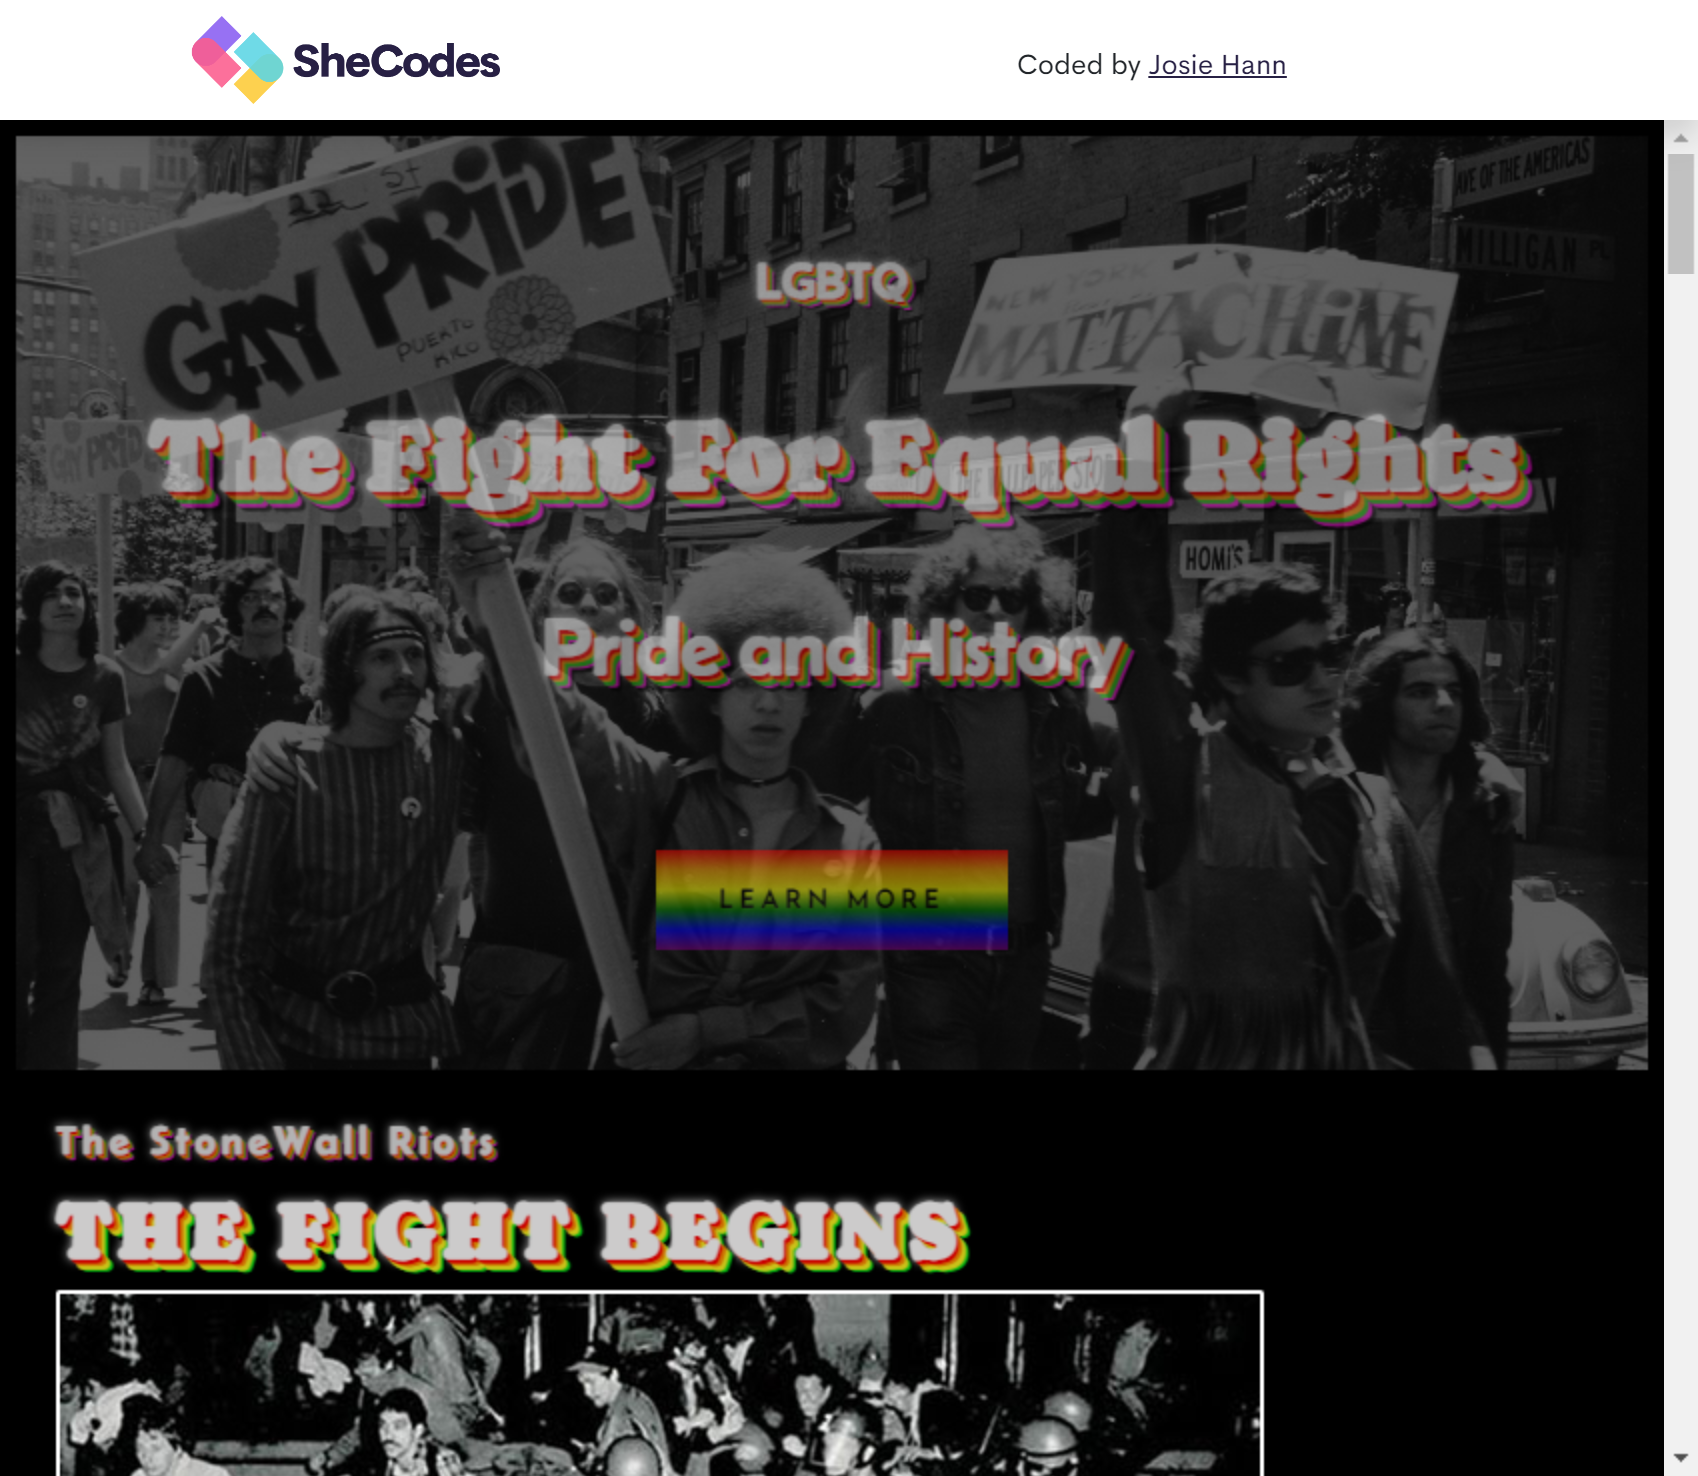
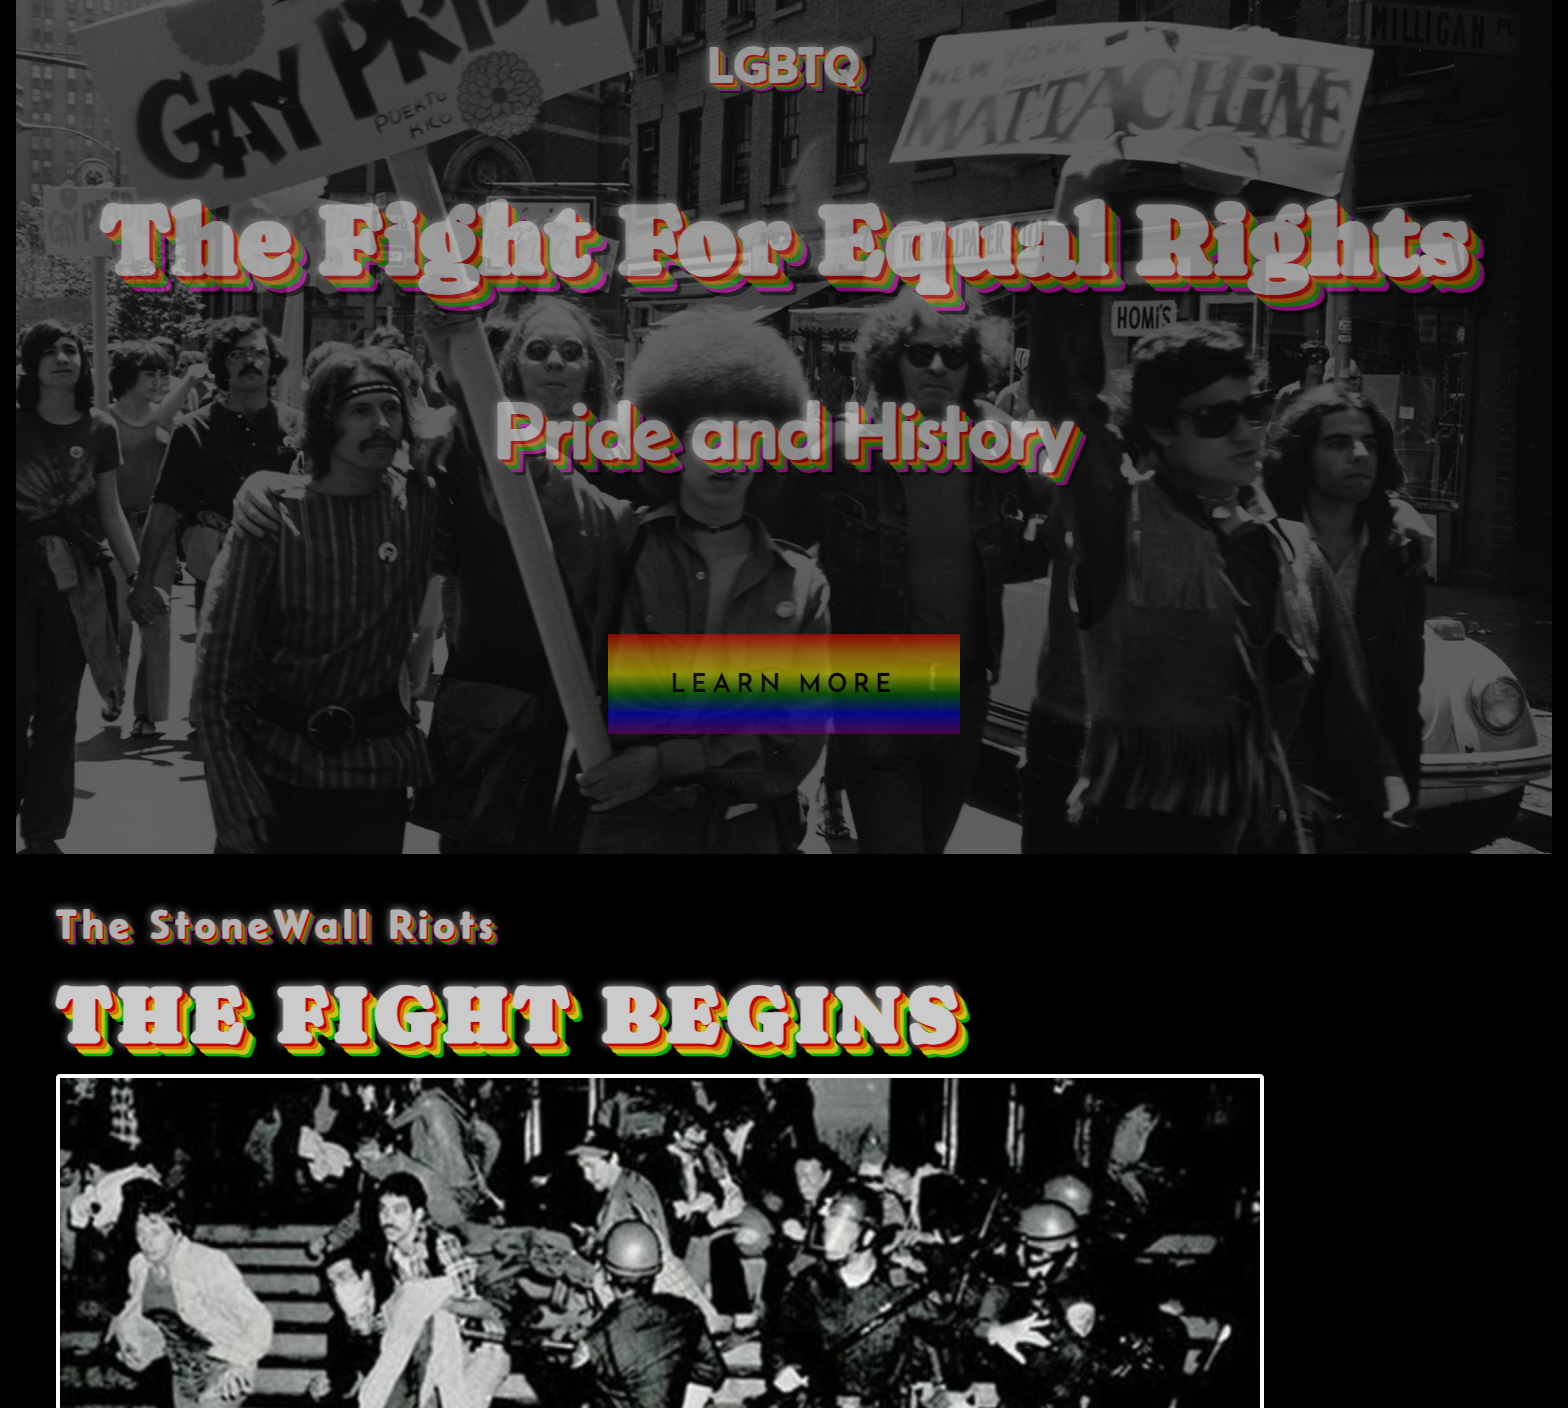
added photos

diff --git a/index.html b/index.html
@@ -17,7 +17,7 @@
 <body>
     <nav class="navbar">
         <ul>
-          <li> <a>𝒥𝑜𝓈𝒾𝑒 𝐻𝒶𝓃𝓃</a></li>
+          <li class="title"> <a>𝒥𝑜𝓈𝒾𝑒 𝐻𝒶𝓃𝓃</a></li>
           <li class="active"><a href="/index.html" title="Homepage">Home</a></li>
           <li><a href="/about.html" title="About Josie">About</a></li>
           <li><a href="/work.html" title=" Josie's Work">Work</a></li>
@@ -25,61 +25,37 @@
         </ul>
       </nav>
     <div class="hero">
-   <p>Hello, I am</p>
+   <h3> Hello I am</h3>
     <h1> Josie Hann </h1>
-    <h2 class="mb-5">Front-end developer based in Maryland</h2>
+    <h2 class="mb-5"> Junior Front-end developer based in Maryland</h2>
     <a href="/contact.html" class="btn btn-branding">Contact me</a>
     </div>
-    <p class="text-center m-5">Explore my featured projects🖤</p>
-    <div class="container">
-        <div class="row mb-5" >
-            <div class="col m-5 d-none d-md-block">
-
-                <img src="images/clock (2).png"  alt="clock webpage" class="img-fluid"
+    <h2 class="text-center mt-5">Explore my certifications below</h2>
+    <div class="grid">
+                <img src="images/intro-coding.png"  alt="intro certification" class="img-fluid" 
                 />
-            </div>
-            <div class="col ">
-                <div class="project-description">
-    <h2 class="mb-5">World Clock Project</h2>
-    <p class="mb-5">I created an open-sourced World-Clock webpage using HTML, CSS, and JavaScript in Visual Studio Code to improve my understanding of date and time counters with time zone support. This project helped me earn my Advanced Web Development certification from Matt Delac, the founder of <a href="https://www.shecodes.io/" target="_blank" title="Shecodes link">Shecodes</a></p>
-  <a href="https://www.shecodes.io/workshops/shecodes-plus-add-on-b3c0f62f-5faf-420c-99fe-58dc2314cfce/projects/1626471" target="_blank" title="Josie's clock app" class="btn btn-branding-outline">Preview Website</a>
+                  <img src="images/shecodespluscert.png"  alt="web development" class="img-fluid" 
+                  />
+        <img src="images/intro-web.png"  alt=" intro web development" class="img-fluid" 
+        />
+    <img src="images/web-development.png"  alt="web development" class="img-fluid" 
+    />
+    <img src="images/responsive.png"  alt=" responsive web development" class="img-fluid" 
+    />
+    <img src="images/advanced-response.png"  alt="advanced response" class="img-fluid" 
+    />
+    <img src="images/react.png"  alt="react development" class="img-fluid" 
+    />
+    <img src="images/advanced-react.png"  alt="advanced react" class="img-fluid" 
+    />
+    <img src="images/front-end-cert.png"  alt="front end developer" class="img-fluid" 
+    />
 </div>
-</div>
-            </div>
-            <div class="row mb-5">
-                <div class="col">
-                    <div class="project-description">
-        <h2 class="mb-5">Weather App </h2>
-        <p class="mb-5">I created an open-sourced weather application using HTML, CSS, javascript, and React. Through this project, I gained experience in coding with a live weather API. This application allows users to search for any city and receive up-to-date weather data with a visually appealing interface. My work on this project earned me a web-development certification from Matt Delac, the founder of <a href="https://www.shecodes.io/" target="_blank" title="Shecodes link">Shecodes</a> 
-        </p>
-      <a href="https://www.shecodes.io/workshops/shecodes-plus-475ce3ee-147b-40ee-8e53-3ca6e4516ee2/projects/1586235" target="_blank" title="Josies weather app"class="btn btn-branding-outline">Preview Website</a>
-    </div>
-    </div>
-
-        <div class="col m-5 d-none d-lg-block">
-
-            <img src="images/weather-app.png" class="img-fluid" alt="weather application" class="img-fluid" width="500px"
-            />
-        </div>
-                </div>
-                <div class="row mb-5">
-                    <div class="col m-5 d-none d-lg-block">
-        
-                        <img src="images/horror.png" class="img-fluid" alt="horror website"
-                        />
-                    </div>
-                    <div class="col">
-                        <div class="project-description">
-            <h2 class="mb-5">Horror Movie Page</h2>
-            <p class="mb-5 ">I created an open-source horror movie webpage on Github using HTML, CSS, and javascript. My goal was to enhance my skill set in creating grids with photo placement and to explore creative ways to change the interface of the webpage with a simple click. This project also includes clickable links on all photos. It helped me earn my introduction to web development certification from Matt Delac, the founder of <a href="https://www.shecodes.io/" target="_blank" title="Shecodes link">Shecodes</a> </p>
-          <a href="https://horror-movie.netlify.app/" target="_blank" title="Josies horror page"class="btn btn-branding-outline">Preview Website</a>
-        </div>
-        </div>
-                    </div>
+                    
                 <footer>
                     <div class="work">
                         <h3>Work inquiry</h3>
-                        <p class="text-muted">Let's work together! <i class="fa-solid fa-heart fa-beat-fade"></i></p>
+                        <p class="inquiry"> Lets collaborate <i class="fa-solid fa-heart fa-beat-fade"></i></p>
                     </div>
                         <div class="d-flex justify-content-center mb-4">
                         <a href="mailto:josiehann0@gmail.com" class="email-link">
@@ -98,7 +74,7 @@
                         </a>
                       </div>
                       <p class="text-center" mt-5>
-                        Coded with <i class="fa-solid fa-heart fa-beat-fade"></i> by Josie Hann and is <a href="https://github.com/JosieHann/front-end-protfolio" target="_blank">open-sourced</a>
+                        Coded with <i class="fa-solid fa-heart fa-beat-fade"></i> by Josie Hann <a href="https://github.com/JosieHann/front-end-protfolio" target="_blank">open-sourced on Github</a> and hosted on <a href="https://sitesiren-josie-portfolio.netlify.app/">netlify</a>
                       </p>
                     </footer>    
         </div>

diff --git a/styles/portfolio.css b/styles/portfolio.css
@@ -1,7 +1,7 @@
 :root {
     --heading-font-family:'Playfair Display', serif;
     --heading-font-color:rgb(252, 248, 248,0.9);
-    --default-background-color:linear-gradient(175deg, rgb(26, 24, 24) 0%, rgb(97, 95, 98) 97%);
+    --default-background-color:black;
     --default-font-family:'Poppins', sans-serif;
     --default-btn-color: radial-gradient(circle at 24.1% 68.8%, rgb(50, 50, 50) 0%, rgb(0, 0, 0) 99.4%);
     }
@@ -19,9 +19,11 @@
 
         }
         h2 {
+          
+          color:rgb(148,133,176);
             font-size: 64px;
             letter-spacing: 2px;
-            text-shadow: 5px 5px rgb(3, 3, 3);
+            text-shadow: 1px 3px 3px rgb(247, 244, 244);
         }
         h3 {
           text-shadow: 1px 5px rgb(3, 3, 3);
@@ -30,56 +32,62 @@
         }
         .mb-4 {
           text-shadow:  5px 5px rgb(3, 3, 3);
+          color:rgb(148,133,176);
+          margin-left: 12px;
         } 
         
-        .email-link {
-          text-shadow: 1px 1px black;
+        a .email-link {
+          color:rgb(148,133,176);
         
         }
-          
+       .email-link:hover {
+        color:rgb(148,133,176); 
+       }
     p {
         font-weight: normal;
         font-family: var(--default-font-family);
-        color: var(--heading-font-color);
-        font-size: 16px;
+        color:rgb(148,133,176);
+        font-size: 25px;
         line-height: 30px;
         letter-spacing: 2px;
         text-shadow: 1px 1px rgb(3, 3, 3);
-        opacity: 0.8;
+        
+        margin-bottom:0;
+        text-decoration: underline;
        
     }
     .hero {
-        background-image: linear-gradient(rgba(0,0,0,0.6), rgba(0,0,0,0.6)),url('../images/front.jpg');
+        background-image: linear-gradient(rgba(0,0,0,0.7), rgba(0,0,0,0.6)),url('../images/front.jpg');
         background-size:  cover;
 background-repeat: no-repeat;
         text-align: center;
         padding:100px 20px;
         box-shadow: 5px 10px 20px rgba(0, 0, 0, 0.2);
     }
-    .hero p {
-        
+    .hero h3 {
+      
     font-size: 50px;
     font-weight: bold;
     margin: 0;
     text-shadow: 5px 3px rgb(0, 0, 0);
-    color: white;
-    opacity: 0.8;
+    color:rgb(148,133,176);
     letter-spacing: 2px;
+    
     }
     .hero h2 {
        font-family: var(--default-font-family);
        font-weight: normal;
        font-size: 24px;
        line-height: 1.5;
-       opacity: 0.8;
        text-shadow: 5px 3px rgb(0, 0, 0);
-       color: white;
        letter-spacing: 2px;
+       color:rgb(148,133,176);
     }
     .hero h1 {
       text-shadow: 5px 3px rgb(0, 0, 0);
-      color: white;
+      color:rgb(148,133,176);
       letter-spacing: 2px;
+     
     }
     
     body {
@@ -135,12 +143,43 @@ background-repeat: no-repeat;
     transition: 500ms transform ease-in-out;
     box-shadow:3px 3px 31px 15px rgba(0, 0, 0, 0.3);
   opacity: 0.8; }
+  a {
+    color:white;
+    
+  }
     a:hover {
-      transition: 800ms transform ease-in-out;
-      color: black;
-      opacity: 0.7;
-    }
+      transition: 800mms transform ease-in-out;
+      color: rgba(186, 138, 231);
   
+    }
+    footer p {
+      color: white;
+      
+    }
+    footer a {
+      color:rgba(186, 138, 231);
+
+    }
+    .social-links{
+      color:rgba(186, 138, 231); 
+    }
+    p.text-center{
+    font-size: 16px;
+    }
+.grid {
+  display: grid;
+  grid-template-columns: 1fr 1fr 1fr;
+  grid-gap:40px;
+  padding: 40px;
+  row-gap: 5px;
+}
+.inquiry {
+  opacity: 0.5;
+  margin-left: 35px;
+}
+.title {
+  color:rgb(153, 141, 175);
+}
 
        @media (max-width:900px) {
         h1 {
@@ -198,7 +237,7 @@ background-repeat: no-repeat;
        img {
         margin-top: 50px;
         border: rgb(22, 21, 21) 5px double;
-        box-shadow: 1px 3px 7px 12px rgba(0, 0, 0, 0.1);
+        box-shadow: 1px 3px 7px 12px rgba(63, 62, 62, 0.1);
         
         
        }
@@ -228,7 +267,12 @@ background-repeat: no-repeat;
       
       footer {
         margin: 40px 0;
+        border: 1px rgb(148,133,176) double;
+        border-radius: 5px;
+        padding: 20px;
+        margin-bottom: 0;
       }
+
       
       footer .contact-box {
         background: var(--secondary-color);
@@ -242,13 +286,7 @@ background-repeat: no-repeat;
       
       footer .email-link {
         text-decoration: none;
-        color: black;
-        font-size: 24px;
-      }
-      
-      footer .email-link:hover {
-        color: var(--branding-color);
-        transition: all 100ms ease-in-out;
+        font-size: 20px;
       }
       
       footer .social-links a {

diff --git a/work.html b/work.html
@@ -26,36 +26,49 @@
       </nav>
     <div class="content-container container">
     <div class="content">
-    <h1 class="mb-4">Take a look at some of my projects!</h1>
+    <h1 class="mb-4">My Top Created Projects</h1>
   <div class="row">
-    <div class="col-md-6 mb-2" >
-        <img src="images/lgbt-page.png" class=" img-fluid mb-3 rounded" alt="lgbt webpage"/>
-      <h3 class="text-center">LGBTQ+ Webpage</h3>
-      <p class="text-center">
-        This LGBTQ+ with HTML and CSS to improve my responsive web development skills. It has historical info, links to resources, and responsive videos. This project got me an advanced certification in responsive web development.
-      </p>
-      </div>
       <div class="col-md-6 mb-2">
         <img src="images/weather-app.png" class="img-fluid mb-3 rounded" alt="weather application"/>
       <h3 class="text-center">Weather App</h3>
       <p class="text-center">
-        Built with HTML , CSS, JavaScript and React. The application utilizes real-time weather information obtained from a weather API.
+        Built with HTML , CSS, JavaScript.The application utilizes real-time weather information obtained from a weather API.
+      weather link: <a href="https://dailyforecastapp.netlify.app/">https://dailyforecastapp.netlify.app/</a>
+      </p>
+      </div>
+      <div class="col-md-6 mb-2">
+        <img src="images/react-weather-app-site.netlify.app_ (1).png" class="img-fluid mb-3 rounded"  alt="React weather app"/>
+      <h3 class="text-center">React Weather App</h3>
+      <p class="text-center">
+        I am excited to introduce the newest edition of my weather application, which now utilizes react.js and a live weather API. The design has been updated to showcase a modern and sophisticated dark aesthetic.
+        weather-app link: <a href="https://react-weather-app-site.netlify.app/">https://react-weather-app-site.netlify.app/</a>
       </p>
       </div>
     <div class="col-md-6 mb-2">
       <img src="images/horror.png" class="img-fluid mb-3 rounded" alt="horror lover webpage"/>
     <h3 class="text-center">Horror Movie Lover Webpage</h3>
     <p class="text-center">
-      Built with HTML and CSS, JavaScript. At the top of the page, you can find a fun theme changer in this application. Additionally, several links on photos are also available.
+      The application has been crafted using HTML, CSS, and JavaScript. The top of the page features a dynamic theme changer, while clickable links have been seamlessly integrated into the photos for easy navigation.
+    page link: <a href="https://horror-movie.netlify.app/">https://horror-movie.netlify.app/</a>
     </p>
     </div>
-    <div class="col-md-6 mb-2">
-      <img src="images/clock (2).png" class="img-fluid mb-3 rounded"  alt="clock website"/>
-    <h3 class="text-center">World clock Project</h3>
+    <div class="col-md-6 mb-2" >
+      <img src="images/lgbt-page.png" class=" img-fluid mb-3 rounded" alt="lgbt webpage"/>
+    <h3 class="text-center">LGBTQ+ Webpage</h3>
     <p class="text-center">
-      Built with HTML, CSS and JavaScript. This application includes a real-time counter that also supports different time zones.
+      This HTML and CSS website is fully dedicated to the LGBTQ+ community. It boasts a completely responsive design, providing historical information, resource links, maps, and responsive videos.
+    page link: <a href="https://lgbtq-pride-history.netlify.app/">https://lgbtq-pride-history.netlify.app/</a>
     </p>
-  </div>
+    </div>
+    
+  <div class="col-md-6 mb-2">
+    <img src="images/dictionary.png" class="img-fluid mb-3 rounded"  alt="dictionary application"/>
+  <h3 class="text-center">Dictionary</h3>
+  <p class="text-center">
+    This React.js dictionary website confidently offers definitions from a comprehensive dictionary API and features audio pronunciations for the majority of its words. 
+    Dictionary link: <a href="https://extraordinary-pixie-e7bb51.netlify.app/">https://extraordinary-pixie-e7bb51.netlify.app/</a>
+  </p>
+</div>
   </div>
 </div>
     </div>
